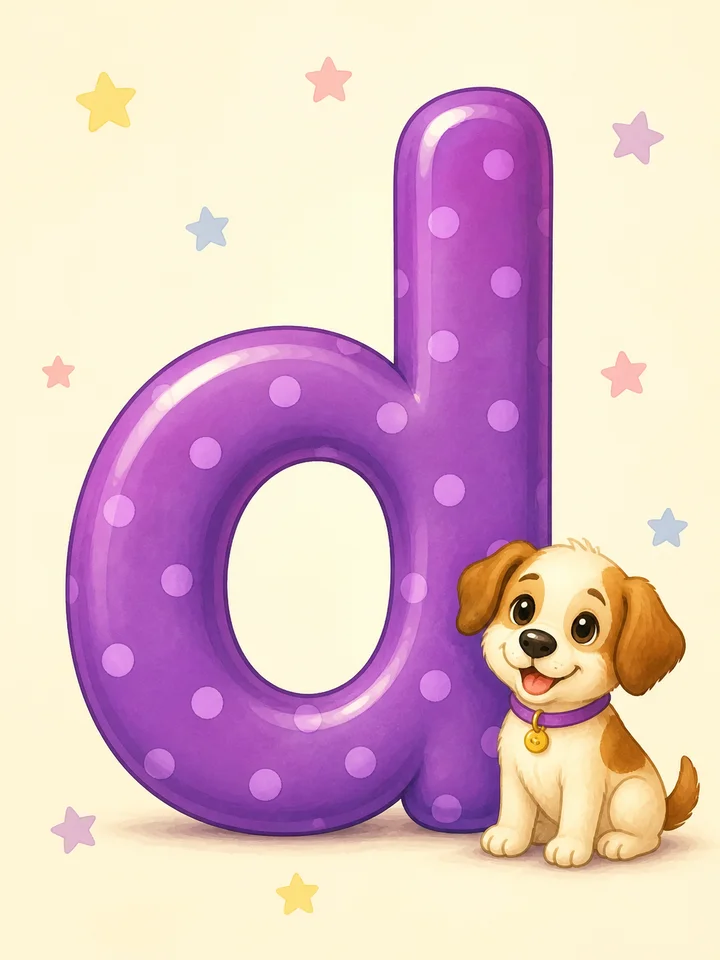
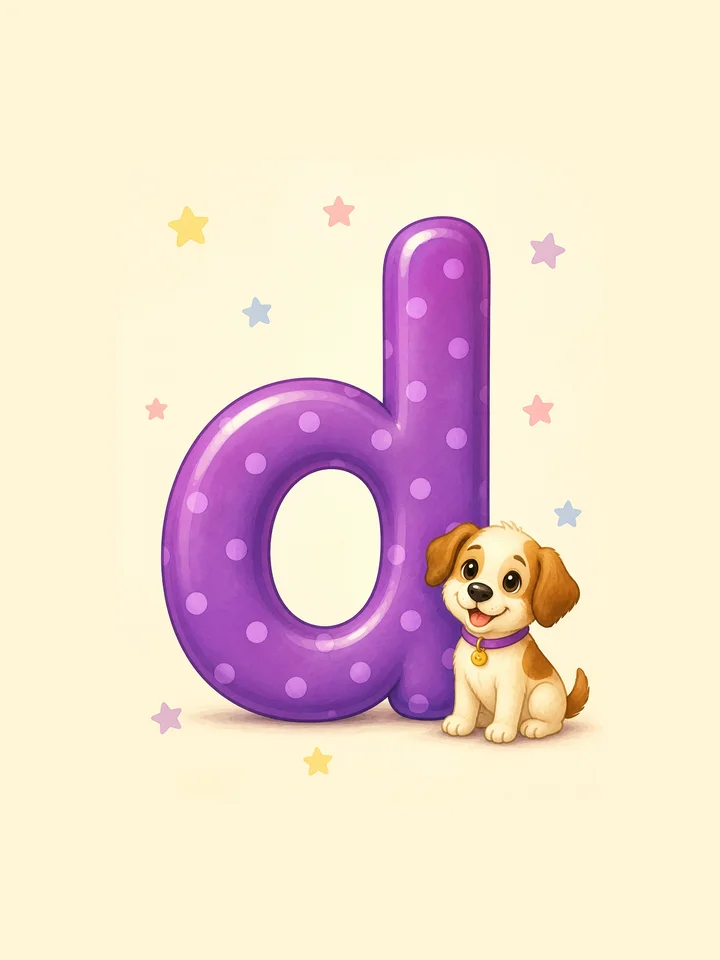
K1 字母卡 26 张归一化:字母从占画面 79% 压到 55%,对齐 K2
家长对比 K1 / K2 的 letters 封面:K2 大小合适,K1 偏大且每张不一致、不整齐。
两组走的是同一套封面 CSS,差异只能在图本身。量了一遍(字母 = 画面里最大的
高饱和连通区域,取其包围盒高度占画面比例):

    K2 letters  11 张  均值 52%  (39–70%)
    K1 letters  26 张  均值 79%  (63–90%)

K1 大了一半 —— 79% 意味着字母已经顶到上下边,±6 的波动在这个尺度下非常扎眼;
K2 在 52% 有充足留白,同样的波动看不出来。根因是第二批 prompt 写了
「字母占满大部分画面」,而 AI 对"占多少"并不稳定。

没有重出图,程序化修:对 26 张源 PNG 按各自字母高度反算一圈边距,把字母统一压到
55%(对齐 K2 均值),竖直方向把字母中心钉在 50%(j 原来偏到 59%),底色取图自身四角
中位数,新画布死守 3:4 让 ingest 不裁。字母和吉祥物一起等比缩,相对关系不动。
按封面实际尺寸(160×213,内缩 10)渲染 before/after:补的底色和原水彩背景没有接缝,
淡彩星星没显出矩形边,吉祥物缩小后依然清楚。

入库后从 webp 复测:26 张 720×960,字母高度 55%(53–55%,标准差 0.3),单文件 ≤35KB。
同一文件被目录页封面 / 学一学大图 / 考一考选项三处引用,一并生效。

验证:check_lesson.py 全部通过(87 节课);目录页 K1 六个字母课封面 has-cover 全在、
0 溢出、0 个 404,Last-Modified 与入库 mtime 同秒(服务器给的是新文件不是缓存)。
sw v64 → v65(v64 被字母操收工那批 dd50bfa 占用,让号)。

diff --git a/english-daka/sw.js b/english-daka/sw.js
@@ -15,7 +15,7 @@
    改 precache 清单或缓存策略时,把 CACHE 的版本号往上加一位,
    activate 会把旧版整个删掉。
    ================================================================ */
-const CACHE = "daka-v64";   // v64:字母操最后 4 张入库(c/d/f/p),25 张身体全部正常 —— d 的竖笔挪到画面右边(上一版举臂在左边,看上去是个 b,而 b/d 同课且正是这年纪最典型的错),c 开口朝右不再是 Ɔ,f 的钩和横朝右;p 身体挑不出毛病但那个圈仍没合上(胳膊从头顶绕过成了拱形),比原来少一条胳膊强,先上;左右务必钉在画面坐标上写 prompt,说「孩子的左手」模型不认(main 侧 v63 已被封面留边占用,让号);v63:封面画不再铺满卡片 —— 四边留一圈边、带自己的圆角、垫在浅色衬底上(铺满版家长反馈"把卡片撑得太满,反而不美观");图 404 仍退回字形徽章;v62 被字母操重出那批占用,让号;v62:字母操 7 张重出入库(c/e/g/j/m + b/f) —— 侧身/扭腰/趴地的姿势 AI 一画就崩(断胳膊、无手断肢、小臂悬空、脖子拧断),全改成正面站立、只用胳膊摆字形;p 和 d 扣下重出(p 画成双手举头顶,和同课的 o 撞脸;d 举臂在画面左边,看上去是个 b,而 b/d 分不清正是这年纪最典型的错);v61:梯形画成了三角形 —— 全局 *{box-sizing:border-box} 把左右透明边框算进 width,内容宽 .62-.3-.3=.02em,上边塌成一个点;梯形那条单独写回 content-box;v60:pattern/eq 卡不再补字母块 —— 颜色课「red」那一问会画出蓝底的 RED 压在红色块下面,孩子正学红色却看到红字写在蓝底上(卡片顶上本来就有色块,这块字母纯属多余);v59:规律课 5 张 + 数学 1 张封面入库,87 课全部有封面(汉字徽章清零);v58:颜色/形状 7 课改用自己的「每问一图」当封面(图挂在 dialog[].image 上,上一轮只看 card.image 把它们判成无图,封面退回了巨型汉字徽章);词族 5 课「What's this family?」的 key 由 family 改成光韵脚(ad/an/at/id/ot —— 答 family 六课通用,这题等于白问);v57:闯关选项从单词换成整句回答(每条自带小喇叭,点喇叭只念不判分),三条只差一个词,必须听完整句才分得出;抽题加两个上限(每卡每轮最多 3 问、同一答案最多 3 次,按本课答案种数放宽)——拼读卡扩到 8 问后整卡整卡地拿,一轮只出得了 1 张卡 8 题;v56:课件词表补 32 张卡(s/t/m/a 四课);26 张「字母操」图挂到「Can you show me letter X?」(I 和 L 共用一张 —— 大写 I 和小写 l 同形,身体摆出来是同一个动作,用两个文件名会放出一道「两张一样的图选一张」的死题);回收课 5 处「扔进哪个箱」、fox on box、鼓槌各挂单图;v55:封面框改成 3:4(原来近正方,3:4 的图被 object-fit:cover 上下各裁 13%,人头全切;老 Safari 无 aspect-ratio 走 @supports 回落);封面不再用拼图卡(一张图四格,缩到 160px 又裁掉上下 27%,人头猫头全切),改挑第一张单图;封面图圆角裁剪改由 .art 自己做(.cover 是 static、图是 absolute,Safari/iPad 的合成层忽略这种祖先圆角裁剪,图片在卡片圆角外露直角);v54:补齐 K2 独有 6 组的组图标(词族/拼读/常见词/主题/数学/科学);v53:198 张新图入库(26 字母卡改挂图/5 场所卡/153 张一问一图);每课封面改用本课第一张卡片图(纯 CSS 渲染的 13 课保留字形徽章);货架标题加每组一张的圆形组图标;v52:音标闭池按内容实际用到的音重算(25 个);sheep 首音那题撤掉改问首字母(/sh/ 不是 K2 教过的音);v50:课程页内容列 520 对齐到目录页的 720(两页宽度不一像两个应用);v49:.page 自带 12px 上内边距(说明行摘掉后第一张卡顶死吸顶栏;让号);v48:入口胶囊 52 收到 44px/15px(统一后整块头重);v47:四个入口胶囊统一 52px 高/16px 字/同内边距,主次只靠颜色分;v46:入口按钮改两列对称网格(自然折行宽窄参差不协调),窄屏一行一个;v45:入口按钮 flex-basis 0 改 auto(basis 0 永不触发折行,长文案从胶囊里溢出);v44:收起卡的旗子一律隐藏(插旗态也不再残留);v43:音频预取改 fetch(媒体元素 preload 会触碰音频栈,蓝牙上每批一声"嗯嗒");v42:日历规则文案改精确(点开 3 张不同的卡即点亮/重复不计/不足 3 张不折算);v41:去掉手势换课的「已切到·撤销」提示条(顶栏课名+滑动方向已足够,黑条多余;main 侧 v40 已被占用,让号);v40:日历色阶四档扩六档(数组驱动分档);v39:课程页 html 封 overflow-x(换课/换题的平移过渡不再闪横向滚动条;main 侧 v38 已被日历整月窗口占用,让号);v38:日历默认窗口按整月起画(固定 12 周会把第一个月拦腰截断,标签间距忽宽忽窄);v37:日历行标补日;月份标签钉在含 1 号的列(不漂移,月初当天即标出新月);v36:打卡日历去掉今天的蓝圈(读作被选中)+四档绿明度差拉开;networkFirst 强制 no-cache 再验证(裸 fetch 会吃浏览器启发式缓存,网络优先拿回旧文件);v35:结果 emoji 行高写死 50px(min-height 44 挡不住真实行高,答对页面长 6px);v34:闯关答对后 hint 行改隐形占位,页面不再突然变短上跳;v33:货架连续拖动防打架(按下瞬时 scrollTo 掐掉上一次松手的 smooth 滑行,再记起点);v32:收起卡的小旗防误触(未插旗隐形占位,插旗只展示;展开后才可点);v31:窄屏打卡条独占一行铺满卡宽,七点均匀摊开+连胜收尾(折行右挂难看,实测点名);v30:打卡条改为只包住内容(悬停底色不再铺满整行空白),连胜三位数+窄屏时自动折行;v29:导出存档桌面直接下载(share 面板只留触屏;share 被系统拒绝时回退下载,不再静默吞掉);v28:目录页从课程页回来时重读存档刷新(bfcache 恢复不重跑脚本,总星星/打卡条/角标全是旧快照);v27:学一学卡片展开改 FLIP,滚动补位与展开动画同步跑(以前展完再瞬移,先张嘴又猛跳,割裂);v26:鼠标拖动改为拖动中临时关 snap(吸附会把逐帧 scrollLeft 拽回,拖着像卡住猛跳),松手自算惯性落点吸卡缘再还原;v25:货架/打卡日历横滚支持鼠标拖动(桌面滚动条藏了又没横划手势,实测完全滑不动);v24:按课堂复习(卡片盖上课日期 added,目录页选日期进当天整套;main 侧的 v23 已被存档层占用,和 v3 同款让号);v23:存档读写层抽成 shell 里的 shared.js(两页共用)+ 家长可导出/导入存档(日历弹窗底部)+ 启动申请 persist();v22:答题快照 30 分钟过期 + 亲手切页签即弃考(修陈年半轮劫持进课落地页);v21:修小旗不对齐(+选择器够不着角标,auto 边距平分空隙);v20:标错题的图标书本改小旗(插旗=标记要练);v19:学一学卡头手动进/出错题本;v18:帽子行三入口统一粉彩(继续学也改淡绿,不再实心);v17:目录页次按钮上淡彩(混合复习淡蓝/错题本淡橙);v16:考一考并入复习账本(P3);v15:错题本(账本切片专练)+ 记账一天一笔;v9:目录页标题收进帽子与打卡条同排 + 打卡日历弹窗(周记录改周一起点);v7:目录页帽子收进同列卡(v6:课程页顶栏/气泡/标签减重;v5:目录页改横滚货架;v4:UI 素材入库 + 混合复习 Leitner 版;main 侧曾占用 v3)
+const CACHE = "daka-v65";   // v65:K1 字母卡 26 张归一化 —— 字母高度从占画面 79% 压到 55%(对齐 K2 的 52%),每张统一居中;家长反馈"K1 的 letters 偏大且大小不一致"。程序化补边,没有重出图;v64 被字母操收工那批占用,让号;v64:字母操最后 4 张入库(c/d/f/p),25 张身体全部正常 —— d 的竖笔挪到画面右边(上一版举臂在左边,看上去是个 b,而 b/d 同课且正是这年纪最典型的错),c 开口朝右不再是 Ɔ,f 的钩和横朝右;p 身体挑不出毛病但那个圈仍没合上(胳膊从头顶绕过成了拱形),比原来少一条胳膊强,先上;左右务必钉在画面坐标上写 prompt,说「孩子的左手」模型不认(main 侧 v63 已被封面留边占用,让号);v63:封面画不再铺满卡片 —— 四边留一圈边、带自己的圆角、垫在浅色衬底上(铺满版家长反馈"把卡片撑得太满,反而不美观");图 404 仍退回字形徽章;v62 被字母操重出那批占用,让号;v62:字母操 7 张重出入库(c/e/g/j/m + b/f) —— 侧身/扭腰/趴地的姿势 AI 一画就崩(断胳膊、无手断肢、小臂悬空、脖子拧断),全改成正面站立、只用胳膊摆字形;p 和 d 扣下重出(p 画成双手举头顶,和同课的 o 撞脸;d 举臂在画面左边,看上去是个 b,而 b/d 分不清正是这年纪最典型的错);v61:梯形画成了三角形 —— 全局 *{box-sizing:border-box} 把左右透明边框算进 width,内容宽 .62-.3-.3=.02em,上边塌成一个点;梯形那条单独写回 content-box;v60:pattern/eq 卡不再补字母块 —— 颜色课「red」那一问会画出蓝底的 RED 压在红色块下面,孩子正学红色却看到红字写在蓝底上(卡片顶上本来就有色块,这块字母纯属多余);v59:规律课 5 张 + 数学 1 张封面入库,87 课全部有封面(汉字徽章清零);v58:颜色/形状 7 课改用自己的「每问一图」当封面(图挂在 dialog[].image 上,上一轮只看 card.image 把它们判成无图,封面退回了巨型汉字徽章);词族 5 课「What's this family?」的 key 由 family 改成光韵脚(ad/an/at/id/ot —— 答 family 六课通用,这题等于白问);v57:闯关选项从单词换成整句回答(每条自带小喇叭,点喇叭只念不判分),三条只差一个词,必须听完整句才分得出;抽题加两个上限(每卡每轮最多 3 问、同一答案最多 3 次,按本课答案种数放宽)——拼读卡扩到 8 问后整卡整卡地拿,一轮只出得了 1 张卡 8 题;v56:课件词表补 32 张卡(s/t/m/a 四课);26 张「字母操」图挂到「Can you show me letter X?」(I 和 L 共用一张 —— 大写 I 和小写 l 同形,身体摆出来是同一个动作,用两个文件名会放出一道「两张一样的图选一张」的死题);回收课 5 处「扔进哪个箱」、fox on box、鼓槌各挂单图;v55:封面框改成 3:4(原来近正方,3:4 的图被 object-fit:cover 上下各裁 13%,人头全切;老 Safari 无 aspect-ratio 走 @supports 回落);封面不再用拼图卡(一张图四格,缩到 160px 又裁掉上下 27%,人头猫头全切),改挑第一张单图;封面图圆角裁剪改由 .art 自己做(.cover 是 static、图是 absolute,Safari/iPad 的合成层忽略这种祖先圆角裁剪,图片在卡片圆角外露直角);v54:补齐 K2 独有 6 组的组图标(词族/拼读/常见词/主题/数学/科学);v53:198 张新图入库(26 字母卡改挂图/5 场所卡/153 张一问一图);每课封面改用本课第一张卡片图(纯 CSS 渲染的 13 课保留字形徽章);货架标题加每组一张的圆形组图标;v52:音标闭池按内容实际用到的音重算(25 个);sheep 首音那题撤掉改问首字母(/sh/ 不是 K2 教过的音);v50:课程页内容列 520 对齐到目录页的 720(两页宽度不一像两个应用);v49:.page 自带 12px 上内边距(说明行摘掉后第一张卡顶死吸顶栏;让号);v48:入口胶囊 52 收到 44px/15px(统一后整块头重);v47:四个入口胶囊统一 52px 高/16px 字/同内边距,主次只靠颜色分;v46:入口按钮改两列对称网格(自然折行宽窄参差不协调),窄屏一行一个;v45:入口按钮 flex-basis 0 改 auto(basis 0 永不触发折行,长文案从胶囊里溢出);v44:收起卡的旗子一律隐藏(插旗态也不再残留);v43:音频预取改 fetch(媒体元素 preload 会触碰音频栈,蓝牙上每批一声"嗯嗒");v42:日历规则文案改精确(点开 3 张不同的卡即点亮/重复不计/不足 3 张不折算);v41:去掉手势换课的「已切到·撤销」提示条(顶栏课名+滑动方向已足够,黑条多余;main 侧 v40 已被占用,让号);v40:日历色阶四档扩六档(数组驱动分档);v39:课程页 html 封 overflow-x(换课/换题的平移过渡不再闪横向滚动条;main 侧 v38 已被日历整月窗口占用,让号);v38:日历默认窗口按整月起画(固定 12 周会把第一个月拦腰截断,标签间距忽宽忽窄);v37:日历行标补日;月份标签钉在含 1 号的列(不漂移,月初当天即标出新月);v36:打卡日历去掉今天的蓝圈(读作被选中)+四档绿明度差拉开;networkFirst 强制 no-cache 再验证(裸 fetch 会吃浏览器启发式缓存,网络优先拿回旧文件);v35:结果 emoji 行高写死 50px(min-height 44 挡不住真实行高,答对页面长 6px);v34:闯关答对后 hint 行改隐形占位,页面不再突然变短上跳;v33:货架连续拖动防打架(按下瞬时 scrollTo 掐掉上一次松手的 smooth 滑行,再记起点);v32:收起卡的小旗防误触(未插旗隐形占位,插旗只展示;展开后才可点);v31:窄屏打卡条独占一行铺满卡宽,七点均匀摊开+连胜收尾(折行右挂难看,实测点名);v30:打卡条改为只包住内容(悬停底色不再铺满整行空白),连胜三位数+窄屏时自动折行;v29:导出存档桌面直接下载(share 面板只留触屏;share 被系统拒绝时回退下载,不再静默吞掉);v28:目录页从课程页回来时重读存档刷新(bfcache 恢复不重跑脚本,总星星/打卡条/角标全是旧快照);v27:学一学卡片展开改 FLIP,滚动补位与展开动画同步跑(以前展完再瞬移,先张嘴又猛跳,割裂);v26:鼠标拖动改为拖动中临时关 snap(吸附会把逐帧 scrollLeft 拽回,拖着像卡住猛跳),松手自算惯性落点吸卡缘再还原;v25:货架/打卡日历横滚支持鼠标拖动(桌面滚动条藏了又没横划手势,实测完全滑不动);v24:按课堂复习(卡片盖上课日期 added,目录页选日期进当天整套;main 侧的 v23 已被存档层占用,和 v3 同款让号);v23:存档读写层抽成 shell 里的 shared.js(两页共用)+ 家长可导出/导入存档(日历弹窗底部)+ 启动申请 persist();v22:答题快照 30 分钟过期 + 亲手切页签即弃考(修陈年半轮劫持进课落地页);v21:修小旗不对齐(+选择器够不着角标,auto 边距平分空隙);v20:标错题的图标书本改小旗(插旗=标记要练);v19:学一学卡头手动进/出错题本;v18:帽子行三入口统一粉彩(继续学也改淡绿,不再实心);v17:目录页次按钮上淡彩(混合复习淡蓝/错题本淡橙);v16:考一考并入复习账本(P3);v15:错题本(账本切片专练)+ 记账一天一笔;v9:目录页标题收进帽子与打卡条同排 + 打卡日历弹窗(周记录改周一起点);v7:目录页帽子收进同列卡(v6:课程页顶栏/气泡/标签减重;v5:目录页改横滚货架;v4:UI 素材入库 + 混合复习 Leitner 版;main 侧曾占用 v3)
 
 /* 壳:没有它们页面根本打不开。装 SW 的时候一次性拉齐。
    ⚠ preview-img.js 436KB 也在里面 —— 它只在直接打开 app.html(不带 ?lesson=)
